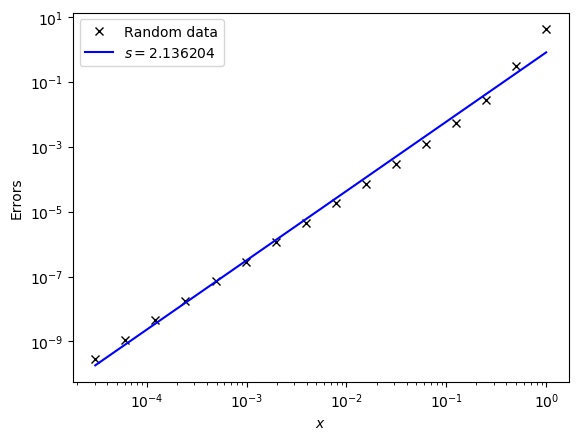
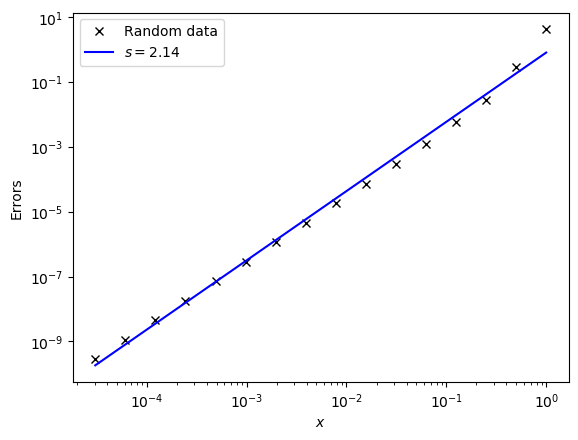
Final exercise issues.
Need to merge in binder branch.

diff --git a/exercises/test_05_05.py b/exercises/test_05_05.py
@@ -10,4 +10,19 @@ def test():
 
     assert np.allclose((s, log_C), (3.863568238574405, -6.413802170416763)), "Have you computed the best fit line correctly?"
 
+    try:
+        ax = plt.gca()
+        lines = ax.get_lines()
+        leg = ax.get_legend()
+    except:
+        raise AssertionError("Have you produced a plot to the screen that contains a legend?")
+
+    assert ax.get_xlabel() == r"$\Delta x$", "Have you set the x label correctly?"
+    assert ax.get_ylabel() == "Errors", "Have you set the y label correctly?"
+    assert (leg.get_texts()[0].get_text() == r"Simpson's rule") and (leg.get_texts()[1].get_text() == r"$s = 3.86$"), "Have you set the legend labels correctly?"
+    assert ax.get_title() == "Convergence of Simpson's rule", "Have you set the plot title correctly?"
+    for l in lines:
+        assert np.allclose(l.get_data()[0], dx), "Have you used the correct array on the x axis?"
+        assert np.allclose(l.get_data()[1], errs) or np.allclose(l.get_data()[1], np.exp(log_C) * dx**s), "Have you used the correct array on the y axis?"
+
     __msg__.good("Well done!")

diff --git a/exercises/solution_05_05.py b/exercises/solution_05_05.py
@@ -1,10 +1,11 @@
 import numpy as np
 import matplotlib.pyplot as plt
+import sys; sys.path.insert(0, 'exercises/')
 from ch5_simpson_results import dx, errs
 
 s, log_C = np.polyfit(np.log(dx), np.log(errs), 1)
 plt.loglog(dx, errs, 'kx', label="Simpson's rule")
-plt.loglog(dx, np.exp(log_C) * dx**s, 'b-', label=fr"$s = {s:2f}$")
+plt.loglog(dx, np.exp(log_C) * dx**s, 'b-', label=fr"$s = {s:.2f}$")
 plt.legend()
 plt.xlabel(r"$\Delta x$")
 plt.ylabel("Errors")

diff --git a/static/chapter5/plots.py b/static/chapter5/plots.py
@@ -5,7 +5,7 @@ dx = 1/2**np.arange(16)
 errs = 0.3 * dx**2 + 5*np.random.rand(len(dx)) * dx**4
 s, log_C = np.polyfit(np.log(dx), np.log(errs), 1)
 plt.loglog(dx, errs, 'kx', label="Random data")
-plt.loglog(dx, np.exp(log_C) * dx**s, 'b-', label=fr"$s = {s:2f}$")
+plt.loglog(dx, np.exp(log_C) * dx**s, 'b-', label=fr"$s = {s:.2f}$")
 plt.xlabel(r"$x$")
 plt.ylabel("Errors")
 plt.legend()

diff --git a/exercises/exc_05_05.py b/exercises/exc_05_05.py
@@ -1,5 +1,6 @@
 import numpy as np
 import matplotlib.pyplot as plt
+import sys; sys.path.insert(0, 'exercises/')
 from ch5_simpson_results import dx, errs
 
 s, log_C = np.polyfit(___)

diff --git a/slides/chapter5_01_convergence.md b/slides/chapter5_01_convergence.md
@@ -71,7 +71,7 @@ s, log_C = np.polyfit(np.log(dx), np.log(errs), 1)
 Then plot:
 ```python
 plt.loglog(dx, errs, 'kx', label="Random data")
-plt.loglog(dx, np.exp(log_C) * dx**s, 'b-', label=fr"$s = {s:2f}$")
+plt.loglog(dx, np.exp(log_C) * dx**s, 'b-', label=fr"$s = {s:.2f}$")
 ```
 
 Notes: For more general integrands than simple polynomials we expect the method to have a numerical error, and the analysis in the notes shows how that scales with the grid resolution. We can then use some general integrand whose exact integral we can compute, and check that the numerical error of the code scales as we expect.<br>The error in general is a power series in the grid spacing. However, it is only the leading term (smallest power of \\(\Delta x\\)) that we care about. To measure this it is best to take logarithms of the error and grid spacing. The best-fit <em>straight line</em> of \\(\log {\cal E}\\) against \\(\log ( \Delta x )\\) has slope which is the measured convergence rate \\(s\\). This is the smallest power of \\(\Delta x\\) in the power series, and can be compared to the value from the analysis.<br><code>numpy</code> has a function that computes best fit polynomials, which is <code>polyfit</code>. We only want a straight line, so the degree is <code>1</code>, and it returns the slope and the intersection. The slope is the key number, but it is important to check that the fit makes sense (there may be outliers!). We can do this using a <code>loglog</code> plot, which we can annotate with the convergence rate.
